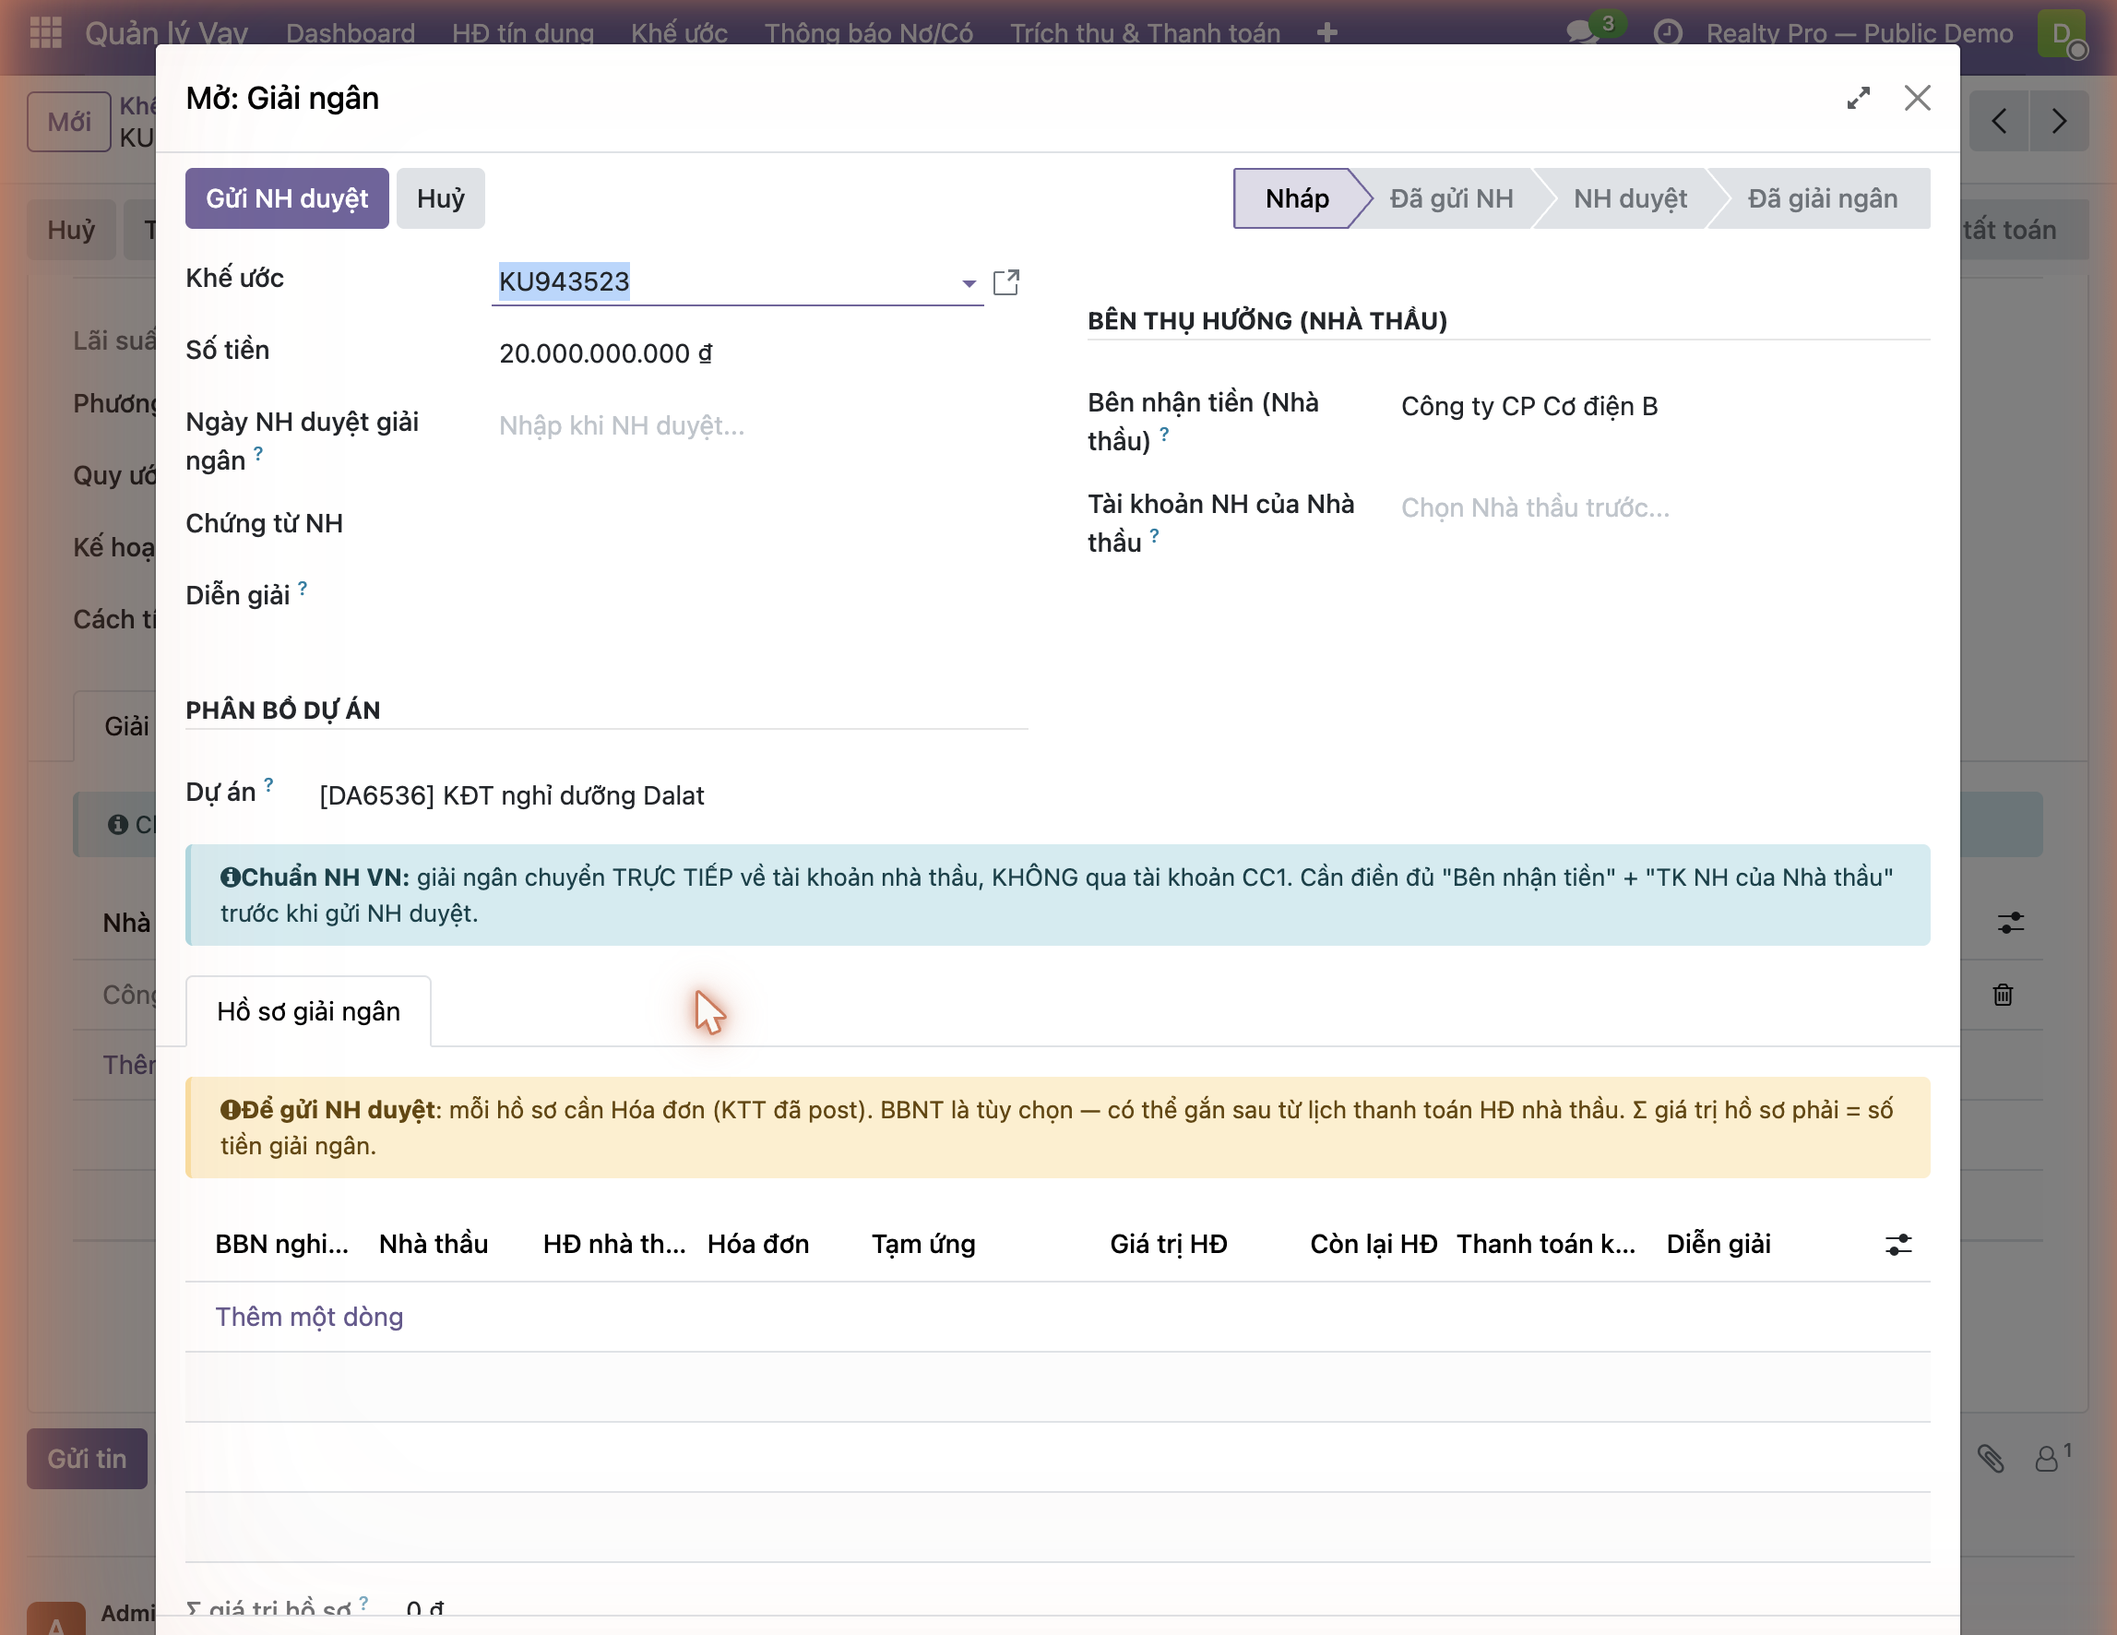
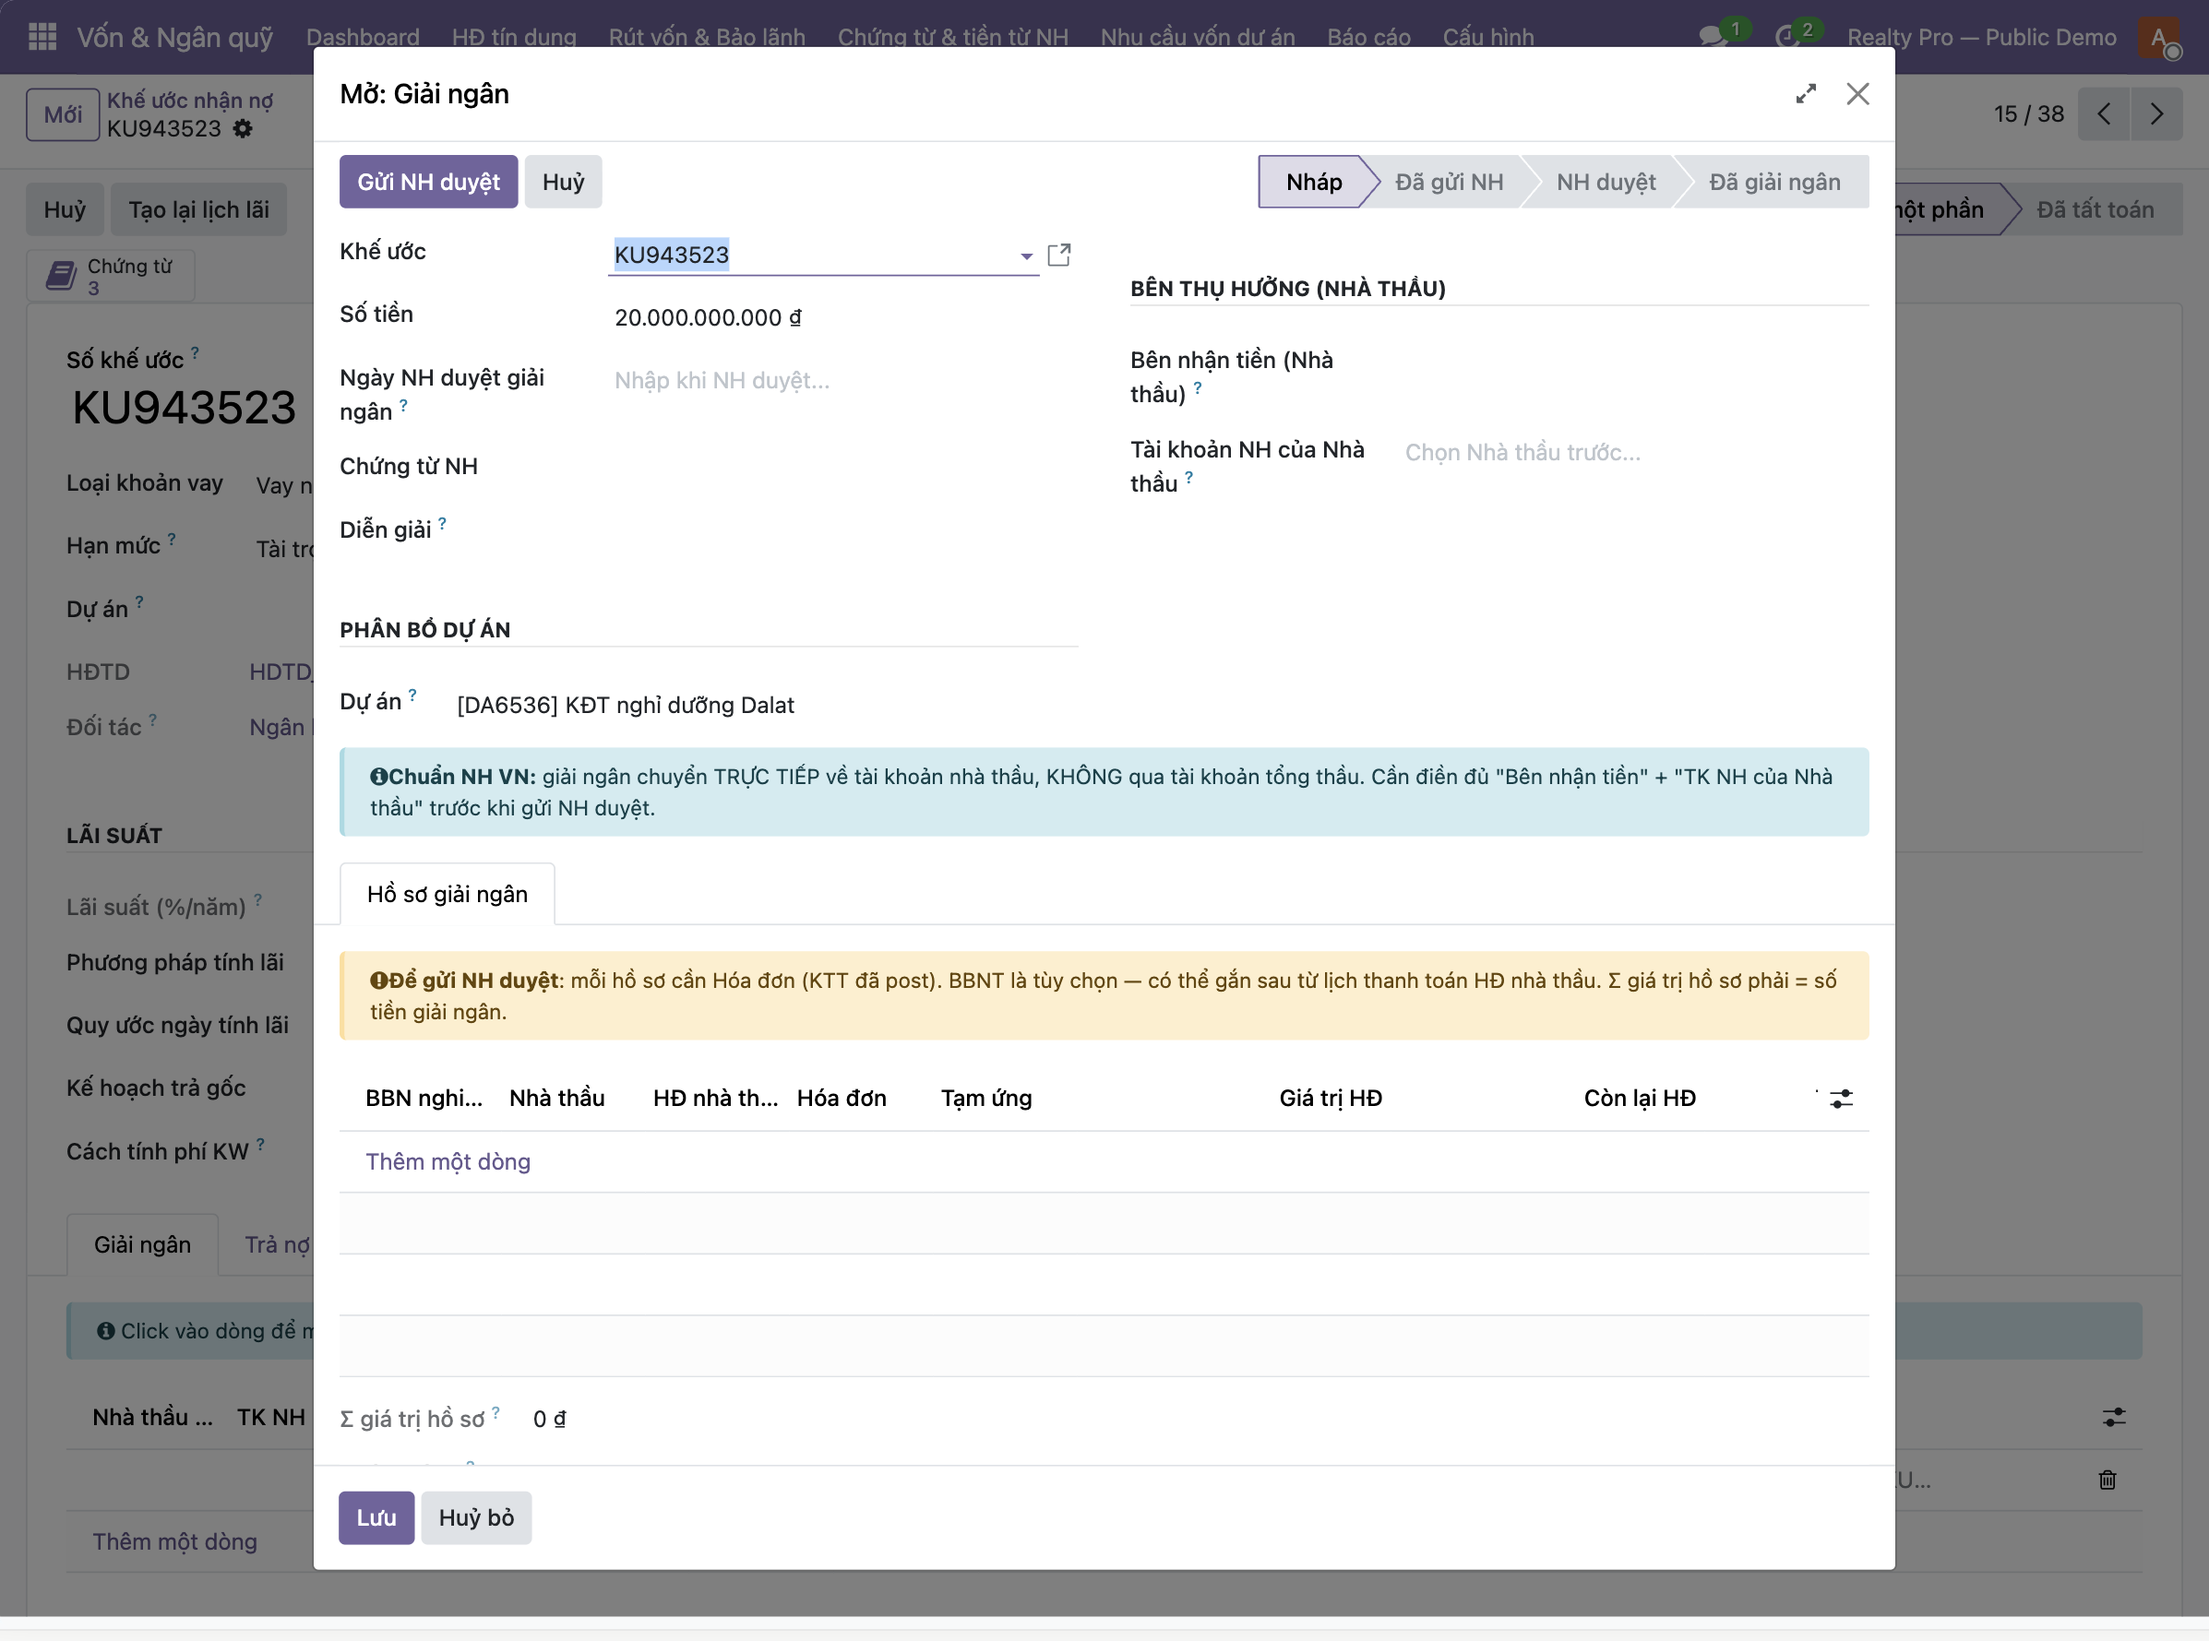
fix(nda): gỡ tên khách còn lộ trong ảnh 10-disb-form.png + xmlid demo
Ảnh `10-disb-form.png` (chụp 05/07/2026) hiện nguyên câu help cũ trên
hộp thoại giải ngân: "KHÔNG qua tài khoản CC1". Grep không đọc được chữ
trong PNG nên lần scrub trước bỏ sót — soi mắt 23 ảnh cũ mới thấy, và
chỉ đúng ảnh này dính. Chụp lại trên demo.realtypro.vn sau khi mã nguồn
đã sửa thành "tài khoản tổng thầu".

Kèm hai chỗ text còn tên khách trong định danh:
- re_loan_demo_onlending.xml: xmlid demo_partner_cc1[_sub] →
  demo_partner_parent[_sub] (chưa DB nào nạp, đổi an toàn).
- loan_brd.md: cột addons riêng của khách trong bảng phạm vi.

diff --git a/docs/loan_brd.md b/docs/loan_brd.md
@@ -113,7 +113,7 @@ cho 1..n khoản cho vay lại; dư nợ mỗi bên độc lập.
 | OUT-5 | Thư tín dụng (L/C) | `_finance/rf_letter_of_credit` |
 | OUT-6 | Tiền gửi có kỳ hạn (HDTG) | `_finance/rf_time_deposit` |
 | OUT-7 | Cam kết tín dụng (TX TC CK) | `_finance/rf_credit_commitment` |
-| OUT-8 | COA / branding / migration tổng thầu | `_cc1/*` |
+| OUT-8 | COA / branding / migration riêng từng khách | addons riêng của khách |
 | OUT-9 | Master data ngân hàng đầy đủ (seed 20+ NH, mã NHNN, template per bank) | `re_bank` (dùng `res.bank` chuẩn cho v1, xem §13) |
 
 ### 3.3 Ranh giới với kế toán
